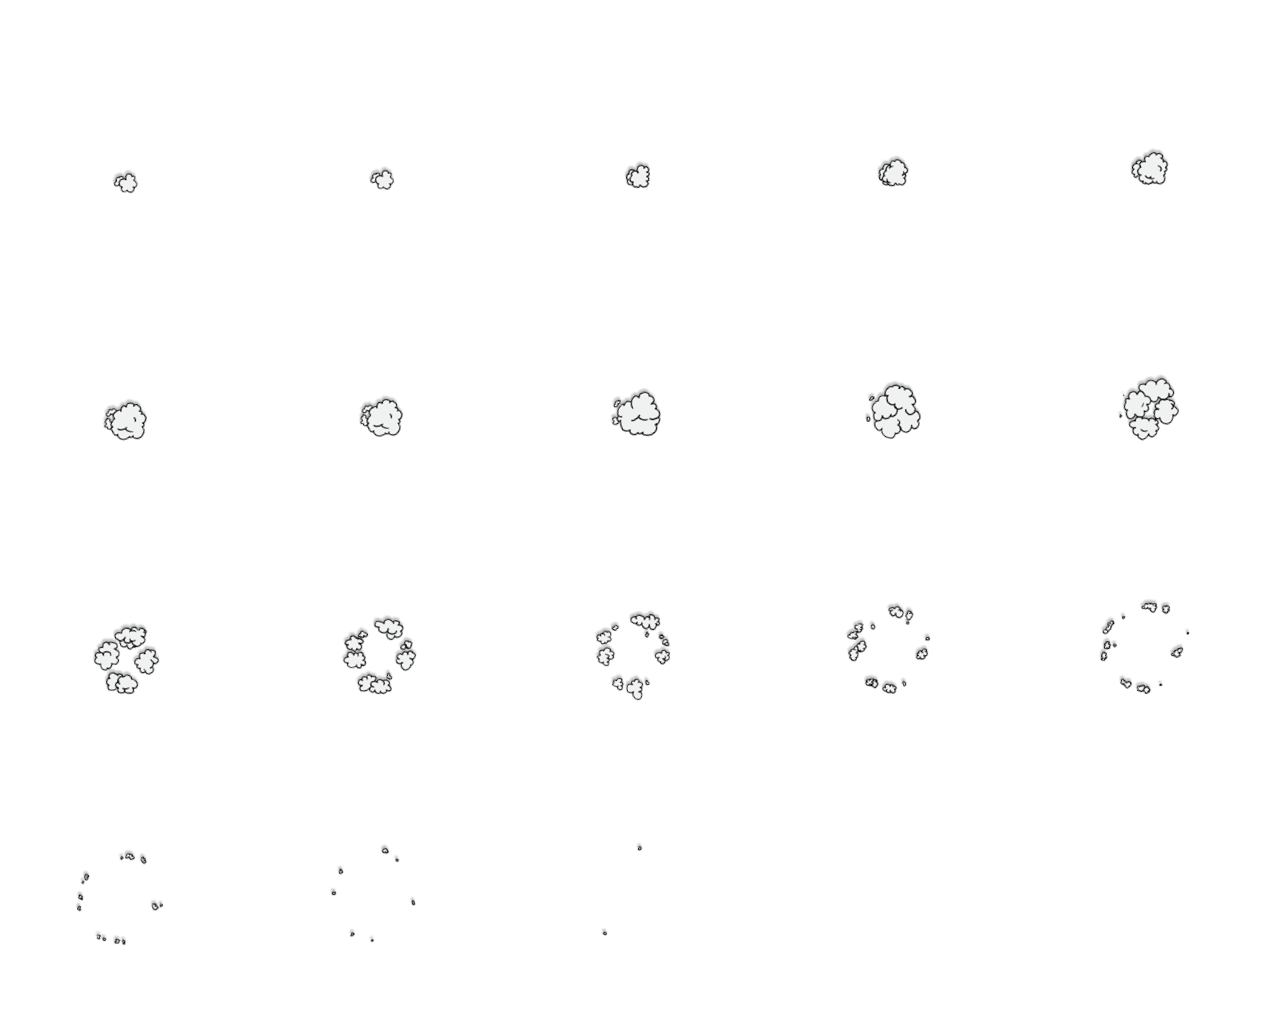
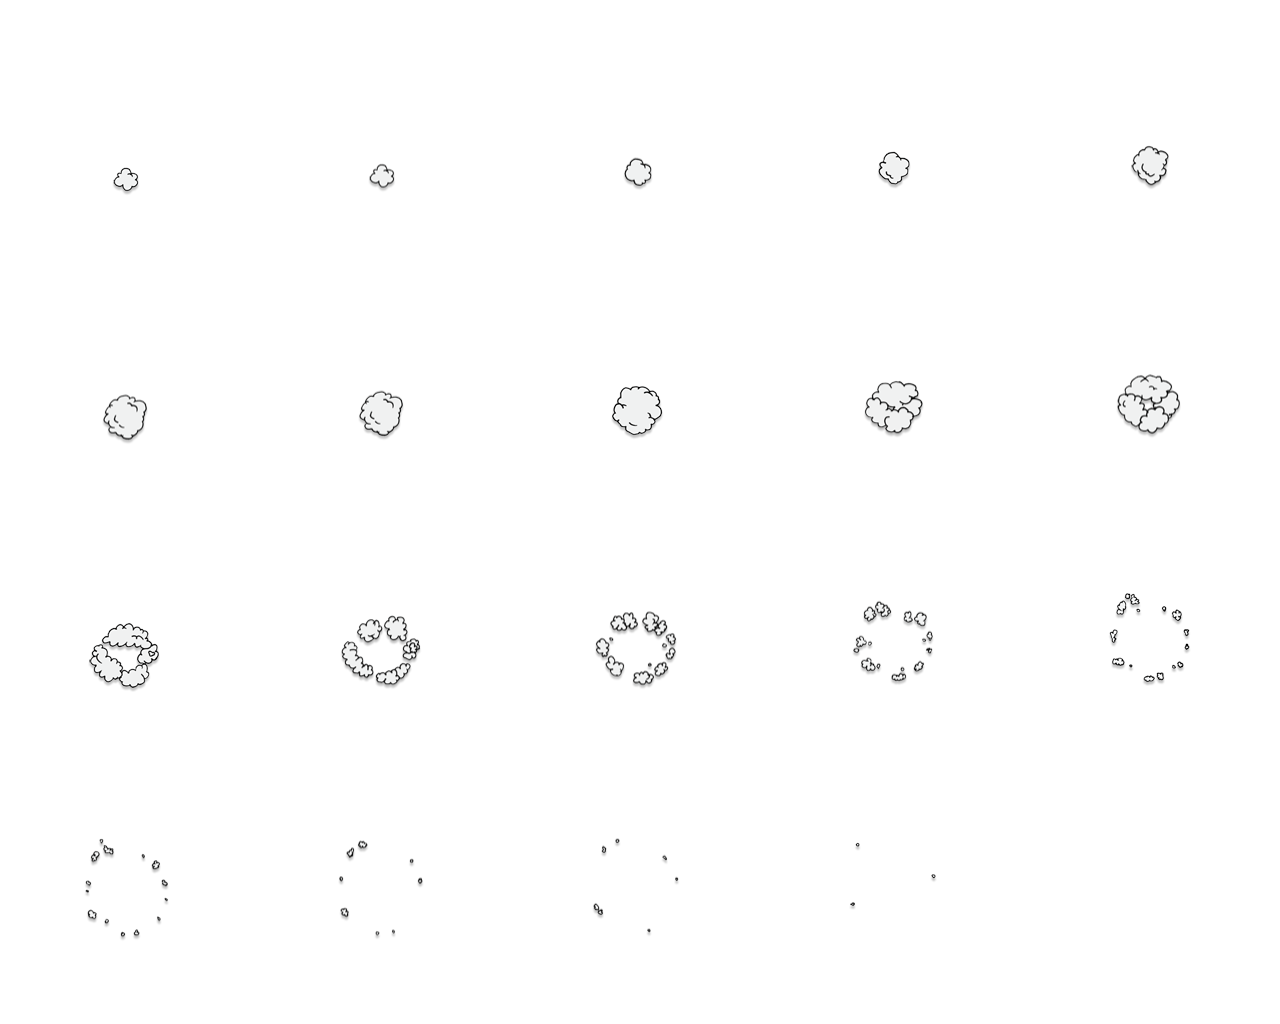
Peashooter 애니메이션 적용

diff --git a/DirectX_UTG/GameEngineContents/Peashooter.cpp b/DirectX_UTG/GameEngineContents/Peashooter.cpp
@@ -14,10 +14,20 @@ Peashooter::~Peashooter()
 void Peashooter::Start()
 {
 	RenderPtr = CreateComponent<GameEngineSpriteRenderer>();
-	RenderPtr->SetScaleToTexture("Temporary_Peashooter.png");
+
+	RenderPtr->CreateAnimation({ "Loop", "Peashooter_Loop.png", 0, 7, 0.1f, true, false });
+	RenderPtr->CreateAnimation({ "Death", "Peashooter_Death.png", 0, 6, 0.1f, false, false });
+
+	RenderPtr->GetTransform()->SetLocalScale(float4{ 400, 400 });
+	RenderPtr->ChangeAnimation("Loop");
 }
 void Peashooter::Update(float _DeltaTime)
 {
+	//if (true == RenderPtr->FindAnimation("Spawn")->IsEnd())
+	//{
+	//	RenderPtr->ChangeAnimation("Loop", true);
+	//}
+
 	MoveDirection(_DeltaTime);
 	DeathCheck();
 }

diff --git a/DirectX_UTG/GameEngineContents/Player.h b/DirectX_UTG/GameEngineContents/Player.h
@@ -58,6 +58,7 @@ protected:
 
 private:
 	std::shared_ptr<class GameEngineSpriteRenderer> RenderPtr = nullptr;
+	std::shared_ptr<class GameEngineSpriteRenderer> PeashooterRenderPtr = nullptr;
 	
 	std::shared_ptr<class GameEngineSpriteRenderer> DebugRenderPtr0 = nullptr;
 	std::shared_ptr<class GameEngineSpriteRenderer> DebugRenderPtr1 = nullptr;
@@ -105,6 +106,8 @@ private:
 	void CreateMoveDust();
 	void CreateLandDust();
 	void CreateParryEffect();
+
+	int ProjectileSet = 0;
 
 	void DirectCheck();
 
